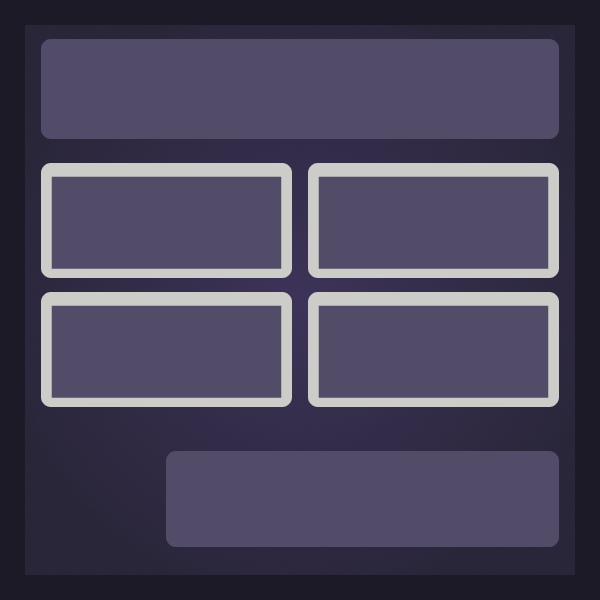
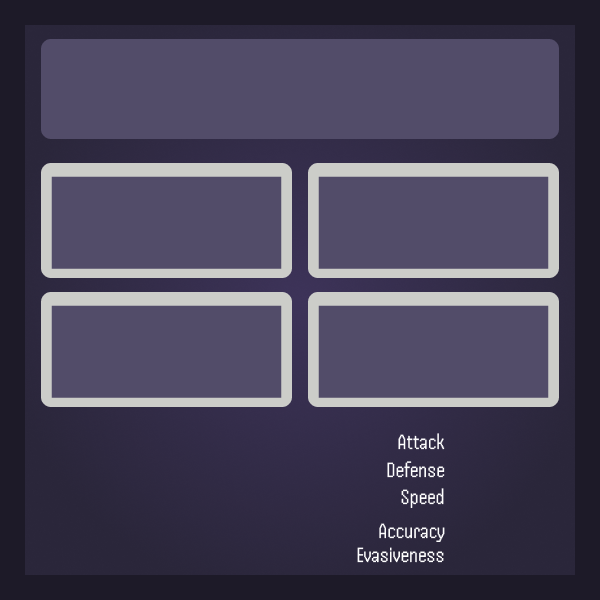
major updates in UI

Changed region(s): [[0.27, 0.72, 0.93, 0.96]]

diff --git a/frame/image-generation/generators.ts b/frame/image-generation/generators.ts
@@ -1,10 +1,12 @@
 import sharp from "sharp";
 import { Attack } from "../types/types";
-import { attackType, hpSVG, moves, pokemonSVG, typeBox } from "./functions";
+import { attackType, hpHp, hpSVG, moves, pokemonSVG, statusPokemon, typeBox } from "./functions";
 
 export const generateGame = async (
     pokemon1Name: string,
+    pokemon1Id: string,
     pokemon2Name: string,
+    pokemon2Id: string,
     totalHP1: number,
     currentHp1: number,
     totalHP2: number,
@@ -16,52 +18,41 @@ export const generateGame = async (
       const gameComponents = (() => {
         const components = [];
   
-        // SVG box card
-        const cardSVG = `
-        <svg width="255" height="100">
-          <rect x="2" y="2" width="220" height="80" rx="12" fill="#3D3359" stroke="#5A534B" stroke-width="3"/>
-        </svg>
-      `;
-        components.push({ input: Buffer.from(cardSVG), top: 440, left: 335 });
-        components.push({ input: Buffer.from(cardSVG), top: 40, left: 35 });
   
         const hp1SVG = hpSVG(currentHp1, totalHP1);
         const hp2SVG = hpSVG(currentHp2, totalHP2);
   
-        components.push({ input: Buffer.from(hp1SVG), top: 480, left: 350 });
-        components.push({ input: Buffer.from(hp2SVG), top: 80, left: 50 });
-  
-        
-
+        components.push({ input: Buffer.from(hp1SVG), top: 496, left: 351 });
+        components.push({ input: Buffer.from(hp2SVG), top: 104, left: 53 });
         const pokemon1SVG = pokemonSVG(pokemon1Name);
         const pokemon2SVG = pokemonSVG(pokemon2Name);
-  
-        components.push({ input: Buffer.from(pokemon1SVG), top: 445, left: 350 });
-        components.push({ input: Buffer.from(pokemon2SVG), top: 45, left: 50 });
+        components.push({ input: Buffer.from(pokemon1SVG), top: 455, left: 351 });
+        components.push({ input: Buffer.from(pokemon2SVG), top: 59, left: 53 });
   
         return components;
       })
   
-      const baseImageBuffer = await sharp('./public/pokemon-battle.png')
+      const baseImageBuffer = await sharp('./public/battle-playground.png')
         .resize(600, 600)
         .png()
         .toBuffer();
   
       const gameComponentsArray = gameComponents();
   
-      const pokemon1ImageBuffer = await sharp('./public/1.png')
+      const pokemon1ImageBuffer = await sharp('./public/pokemons/3.png')
         .resize(200, 200)
         .png()
         .toBuffer();
   
-      const pokemon2ImageBuffer = await sharp('./public/2.png')
+      const pokemon2ImageBuffer = await sharp('./public/pokemons/25.png')
         .resize(200, 200)
         .png()
         .toBuffer();
   
+      const hphp = hpHp(currentHp1, totalHP1);
       gameComponentsArray.push({ input: pokemon1ImageBuffer, top: 350, left: 50 });
       gameComponentsArray.push({ input: pokemon2ImageBuffer, top: 50, left: 350 });
-  
+      gameComponentsArray.push({ input: Buffer.from(hphp), top: 524, left: 484 });
       const finalImage = await sharp(baseImageBuffer)
         .composite(gameComponentsArray)
         .png()
@@ -78,6 +69,7 @@ export const generateGame = async (
 
 export const generateFight = async (
     pokemonName: string,
+    pokemonId: number,
     totalHp: number,
     currentHp: number,
     attacks: Attack [],
@@ -87,7 +79,7 @@ export const generateFight = async (
         const components = [];
         const sentence = `        
           <svg width="600" height="65">
-            <text x="164" y="32" text-anchor="middle" font-family="Handjet" font-size="30" fill="white">What will ${pokemonName} do?</text>
+            <text x="0" y="32" text-anchor="left" font-family="Handjet" font-size="30" fill="white">What will ${pokemonName} do?</text>
           </svg>
         `;
         components.push({ input: Buffer.from(sentence), top: 40, left: 60 });
@@ -95,22 +87,37 @@ export const generateFight = async (
         const atk2 = moves(attacks[1].atk);
         const atk3 = moves(attacks[2].atk);
         const back = `
-          <svg width="200" height="75">
-            <text x="50" y="25" text-anchor="middle" font-family="Handjet" font-size="35" fill="white">BACK</text>
+          <svg width="220" height="75">
+            <text x="15" y="25" text-anchor="left" font-family="Handjet" font-size="35" fill="white">BACK</text>
           </svg>         
         `
+        const hphp = hpHp(currentHp, totalHp);
+        const pokemon1SVG = pokemonSVG(pokemonName);
         const hp1SVG = hpSVG(currentHp, totalHp);
-        components.push({ input: Buffer.from(atk1), top: 190, left: 110 });
-        components.push({ input: Buffer.from(atk2), top: 190, left: 383 });
-        components.push({ input: Buffer.from(atk3), top: 320, left: 110 });
-        components.push({ input: Buffer.from(back), top: 338, left: 385 });
-        components.push({ input: Buffer.from(hp1SVG), top: 480, left: 180 });
-        components.push({  input: Buffer.from(typeBox(attacks[0])), top:228, left:58 });
-        components.push({  input: Buffer.from(attackType(attacks[0])), top:228, left:58 });
-        components.push({  input: Buffer.from(typeBox(attacks[1])), top:228, left:323 });
-        components.push({  input: Buffer.from(attackType(attacks[0])), top:228, left:323 });
-        components.push({  input: Buffer.from(typeBox(attacks[2])), top:357, left:58 });
-        components.push({  input: Buffer.from(attackType(attacks[0])), top:357, left:58 });
+        const attack = statusPokemon('6');
+        const defense = statusPokemon('6');
+        const speed = statusPokemon('6');
+        const accuracy = statusPokemon('6');
+        const evasiveness = statusPokemon('6');
+        components.push({ input: Buffer.from(atk1), top: 183, left: 59 });
+        components.push({ input: Buffer.from(atk2), top: 183, left: 324 });
+        components.push({ input: Buffer.from(atk3), top: 313, left: 59 });
+        components.push({ input: Buffer.from(back), top: 340, left: 330 });
+        components.push({ input: Buffer.from(hphp), top: 526, left: 156 });
+        components.push({ input: Buffer.from(pokemon1SVG), top: 455, left: 154 });
+        components.push({ input: Buffer.from(hp1SVG), top: 494, left: 154 });
+        components.push({  input: Buffer.from(typeBox(attacks[0])), top:226, left:58 });
+        components.push({  input: Buffer.from(attackType(attacks[0])), top:226, left:58 });
+        components.push({  input: Buffer.from(typeBox(attacks[1])), top:226, left:323 });
+        components.push({  input: Buffer.from(attackType(attacks[1])), top:226, left:323 });
+        components.push({  input: Buffer.from(typeBox(attacks[2])), top:355, left:60 });
+        components.push({  input: Buffer.from(attackType(attacks[2])), top:355, left:60 });
+        components.push({  input: Buffer.from(attack), top:427, left:453 });
+        components.push({  input: Buffer.from(defense), top:456, left:453 });
+        components.push({  input: Buffer.from(speed), top:484, left:453 });
+        components.push({  input: Buffer.from(accuracy), top:520, left:453 });
+        components.push({  input: Buffer.from(evasiveness), top:543, left:453 });
+
         return components;
      })
 
@@ -119,8 +126,8 @@ export const generateFight = async (
     .resize(600, 600)
     .png()
     .toBuffer();
-    const pokemon1ImageBuffer = await sharp('./public/pikachu2.png')
-    .resize(100, 100)
+    const pokemon1ImageBuffer = await sharp(`./public/pokemons/${pokemonId}.png`)
+    .resize(108, 108)
     .png()
     .toBuffer();
 
@@ -247,6 +254,94 @@ export const generatePokemonCard = async (
   return finalImage;
   } catch(error) {
       console.error("Error during battle checkout generation:", error);
+      throw error;
+  }
+}
+
+export const generatePokemonMenu = async (
+  pokemonName1: string,
+  pokemonId1: number,
+  pokemonName2: string,
+  pokemonId2: number,  
+  totalHp1: number,
+  currentHp1: number,
+  totalHp2: number,
+  currentHp2: number,
+  attacks: Attack [],
+) => {
+  try {
+    const fightComponents = (() => {
+      const components = [];
+      const sentence = `        
+        <svg width="600" height="65">
+          <text x="0" y="32" text-anchor="left" font-family="Handjet" font-size="30" fill="white">What will ${pokemonName} do?</text>
+        </svg>
+      `;
+      components.push({ input: Buffer.from(sentence), top: 40, left: 60 });
+      const atk1 = moves(attacks[0].atk);
+      const atk2 = moves(attacks[1].atk);
+      const atk3 = moves(attacks[2].atk);
+      
+      const pokemon1SVG = pokemonSVG(pokemonName1);
+      const pokemon2SVG = pokemonSVG(pokemonName2);
+      const hp1SVG = hpSVG(currentHp1, totalHp1);
+      const hp2SVG = hpSVG(currentHp2, totalHp2);
+      const hphp1 = hpHp(currentHp1, totalHp1);
+      const hphp2 = hpHp(currentHp2, totalHp2);
+      const attack = statusPokemon('6');
+      const defense = statusPokemon('6');
+      const speed = statusPokemon('6');
+      const accuracy = statusPokemon('6');
+      const evasiveness = statusPokemon('6');
+      components.push({ input: Buffer.from(atk1), top: 183, left: 59 });
+      components.push({ input: Buffer.from(atk2), top: 183, left: 324 });
+      components.push({ input: Buffer.from(atk3), top: 313, left: 59 });
+      components.push({ input: Buffer.from(pokemon1SVG), top: 455, left: 154 });
+      components.push({ input: Buffer.from(pokemon2SVG), top: 455, left: 154 });
+      components.push({ input: Buffer.from(hp1SVG), top: 494, left: 154 });
+      components.push({ input: Buffer.from(hp2SVG), top: 494, left: 154 });
+      components.push({ input: Buffer.from(hphp1), top: 494, left: 154 });
+      components.push({ input: Buffer.from(hphp2), top: 494, left: 154 });
+      components.push({  input: Buffer.from(typeBox(attacks[0])), top:226, left:58 });
+      components.push({  input: Buffer.from(attackType(attacks[0])), top:226, left:58 });
+      components.push({  input: Buffer.from(typeBox(attacks[1])), top:226, left:323 });
+      components.push({  input: Buffer.from(attackType(attacks[1])), top:226, left:323 });
+      components.push({  input: Buffer.from(typeBox(attacks[2])), top:355, left:60 });
+      components.push({  input: Buffer.from(attackType(attacks[2])), top:355, left:60 });
+      components.push({  input: Buffer.from(attack), top:427, left:453 });
+      components.push({  input: Buffer.from(defense), top:456, left:453 });
+      components.push({  input: Buffer.from(speed), top:484, left:453 });
+      components.push({  input: Buffer.from(accuracy), top:520, left:453 });
+      components.push({  input: Buffer.from(evasiveness), top:543, left:453 });
+
+      return components;
+   })
+
+  const fightComponentsArray = fightComponents();
+  const baseImageBuffer = await sharp('./public/battle-fight.png')
+  .resize(600, 600)
+  .png()
+  .toBuffer();
+
+  const pokemon1ImageBuffer = await sharp(`./public/pokemons/${pokemonId1}.png`)
+  .resize(108, 108)
+  .png()
+  .toBuffer();
+
+  const pokemon2ImageBuffer = await sharp(`./public/pokemons/${pokemonId2}.png`)
+  .resize(108, 108)
+  .png()
+  .toBuffer();
+
+  fightComponentsArray.push({input: pokemon1ImageBuffer, top: 438, left: 41});
+  const finalImage = await sharp(baseImageBuffer)
+  .composite(fightComponentsArray)
+  .png()
+  .toBuffer();
+
+  return finalImage;
+  } catch(error) {
+      console.error("Error during fight menu generation:", error);
       throw error;
   }
 }

diff --git a/frame/image-generation/functions.ts b/frame/image-generation/functions.ts
@@ -4,8 +4,8 @@ export const moves =((
     attackName: string
   ) => {
         return (
-        `<svg width="300" height="65">
-        <text x="50" y="25" text-anchor="middle" font-family="Handjet" font-size="32" fill="white">${attackName}</text>
+        `<svg width="220" height="65">
+        <text x="0" y="25" text-anchor="left" font-family="Handjet" font-size="27" fill="white">${attackName}</text>
         </svg>`
         )
   })
@@ -33,41 +33,66 @@ export const attackType = ((
         )
   })
 
-export const pp = ((
-    attackPP: number,
-    currentPP: number
-  ) => {
-        return(`
-        <svg width="200" height="75">
-            <text x="50" y="25" text-anchor="middle" font-family="Handjet" font-size="30" fill="white">PP: ${currentPP.toString()}/${attackPP.toString()}</text>
-        </svg>
-        `)
-    })
+export const statusPokemon = ((
+    statusPoints: string,
+) => {
+    return(
+        `
+           <svg width="100" height="45">
+            <text x="0" y="20" text-anchor="left" font-family="Handjet" font-size="20" fill="white">+${statusPoints}</text>
+           </svg>       
 
+        `
+    )
+})
 
-// Create SVG overlays for health bars
 export const hpSVG = ((
     currentHp: number,
     totalHp: number
     ) => {
-        const hpBarSize = 200;
+        const hpBarSize = 160;
         const hpWidth = (currentHp / totalHp ) * hpBarSize;
         return (`
-            <svg width="200" height="100">
-              <rect width="${hpWidth}" height="30" fill="${(hpWidth < 46) ? 'red' : 'green'}"/>
-              <rect x="${hpWidth}" width="${hpBarSize - hpWidth}" height="32" fill="black"/>
-              <text x="145" y="55" text-anchor="middle" font-family="Arial" font-size="24" fill="white">HP:${currentHp}/${totalHp}</text>
-            </svg> 
+            <svg width="194" height="29" fill="none">
+            <rect x="1.5" y="5.5" width="191" height="19" rx="9.5" fill="#1D1A28" stroke="#1D1A28" stroke-width="3"/>
+            <rect x="27.5" y="5.5" width="${hpWidth}" height="19" rx="9.5" fill="url(#paint0_linear_716_93)" stroke="#1D1A28" stroke-width="3"/>
+            <path d="M8.99941 18.6912V17.3676V16.0441V14.7206V13.3971V12.0735V10.75V9.42647V8.10294H10.3229H11.6465V9.42647V10.75V12.0735V13.3971V14.7206V16.0441V17.3676V18.6912V20.0147V21.3382H10.3229H8.99941M8.99941 21.3382V22.6618V17.3676V16.0441V14.7206V13.3971V12.0735V10.75V9.42647V8.10294V6.77941H10.3229H11.6465V8.10294V9.42647V10.75V12.0735V13.3971V14.7206V16.0441V17.3676V18.6912V20.0147V21.3382V22.6618H10.3229H8.99941M14.2935 18.6912V17.3676V16.0441V14.7206V13.3971V12.0735V10.75V9.42647V8.10294H15.6171H16.9406V9.42647V10.75V12.0735V13.3971V14.7206V16.0441V17.3676V18.6912V20.0147V21.3382H15.6171H14.2935M14.2935 21.3382V22.6618V17.3676V16.0441V14.7206V12.0735V10.75V9.42647V8.10294V6.77941H15.6171H16.9406V8.10294V9.42647V10.75V12.0735V13.3971V14.7206V16.0441V17.3676V18.6912V20.0147V21.3382V22.6618H15.6171H14.2935M14.2935 13.3971V14.7206V16.0441H12.97H11.6465V14.7206V13.3971M10.3229 16.0441V14.7206V13.3971H11.6465H15.6171V14.7206V16.0441H12.97H11.6465H10.3229ZM18.7219 18.6912V17.3676V16.0441V14.7206V13.3971V12.0735V10.75V9.42647V8.10294H20.0454H21.3689V9.42647V10.75V12.0735V13.3971V14.7206V16.0441V17.3676V18.6912V20.0147V21.3382H20.0454H18.7219M22.6925 6.77941V8.10294V9.42647H21.3689H20.0454V8.10294V6.77941M24.016 6.77941V8.10294H25.3395H26.663V9.42647V10.75V12.0735V13.3971V14.7206V16.0441H25.3395H24.016V17.3676H22.6925H21.3689V16.0441V14.7206H24.016V13.3971V12.0735V10.75V9.42647H22.6925V8.10294M18.7219 21.3382V22.6618V17.3676V16.0441V14.7206V13.3971V12.0735V10.75V9.42647V8.10294V6.77941H20.0454H25.3395V8.10294V9.42647H26.663V10.75V12.0735V13.3971V14.7206H25.3395V16.0441V17.3676H24.016H22.6925H21.3689L20.0454 16.0441V14.7206H21.3689H24.016V13.3971V12.0735V10.75V9.42647H22.6925H21.3689V10.75V12.0735V13.3971V14.7206V16.0441V17.3676V18.6912V20.0147V21.3382V22.6618H20.0454H18.7219" fill="url(#paint1_linear_716_93)"/>
+            <defs>
+            <linearGradient id="paint0_linear_716_93" x1="110" y1="26" x2="110" y2="4" gradientUnits="userSpaceOnUse">
+            <stop stop-color="${(hpWidth < 46)?'#B71111':'#76ED89'}"/>
+            <stop offset="1" stop-color="${(hpWidth < 46)?'#F50303':'#6DC99B'}"/>
+            </linearGradient>
+            <linearGradient id="paint1_linear_716_93" x1="17.5" y1="0" x2="17.5" y2="29" gradientUnits="userSpaceOnUse">
+            <stop stop-color="#FDDA69"/>
+            <stop offset="1" stop-color="#FBBC41"/>
+            </linearGradient>
+            </defs>
+            </svg>
         `)
     })
 
-// Create SVG overlays for Pokemon names
+function prettyName(inputString: string): string {
+    let upperString = inputString.toUpperCase();
+    return upperString;
+}
+
 export const pokemonSVG = ((
     pokemonName: string
     ) => {
         return( `
-            <svg width="200" height="75">
-            <text x="50" y="25" text-anchor="middle" font-family="Arial" font-size="25" fill="white">${pokemonName}</text>
+            <svg width="165" height="45">
+            <text x="0" y="25" text-anchor="left" font-family="Arial" font-size="20" fill="white" font-weight="bold">${prettyName(pokemonName)}</text>
             </svg>
       `)
     })
+
+export const hpHp = ((
+            currentHp: number,
+            totalHp: number
+        ) => {
+            return( `
+                <svg width="80" height="45">
+                <text x="0" y="25" text-anchor="left" font-family="Arial" font-size="22" fill="white">${currentHp}/${totalHp}</text>
+                </svg>
+          `)
+        })

diff --git a/frame/api/index.tsx b/frame/api/index.tsx
@@ -621,9 +621,21 @@ app.frame('/share/:pokemonId', (c) => {
   })
 })
 
+app.frame('/test', (c) => {
+  const pokemonId = c.req.param('pokemonId');
+  return c.res({
+    title,
+    image: `/image/fight`,
+    imageAspectRatio: '1:1',
+    intents: [
+      <Button action={`/`}>TRY IT OUT 🏠</Button>,
+    ],
+  })
+})
+
 app.hono.get('/image/vs', async (c) => {
   try {
-    const image = await generateGame(`pikachu`, `chupacu`, 20, 4, 30, 23);
+    const image = await generateGame(`pikachu`, '25', `charmander`, '3', 20, 4, 30, 30);
 
     return c.newResponse(image, 200, {
       'Content-Type': 'image/png',
@@ -684,8 +696,8 @@ app.hono.get('/image/checkout/:p1/:p2/:p3', async (c) => {
 
 app.hono.get('/image/fight', async (c) => {
   try {
-    const attacks = [{atk: 'Light', type: {name:'normal', color:'000000'}, PP:20}, {atk: 'Light', type: {name:'normal', color:'000000'}, PP:20}, {atk: 'Light', type: {name:'normal', color:'000000'}, PP:20}] as Attack[];
-    const image = await generateFight('pikachu', 20, 20, attacks)
+    const attacks = [{atk: 'Tackle', type: {name:'normal', color:'919191'}}, {atk: 'Thunderbolt', type: {name:'electric', color:'FFE500'}}, {atk: 'Light', type: {name:'normal', color:'000000'}}] as Attack[];
+    const image = await generateFight('pikachu', 25, 20, 20, attacks)
 
     return c.newResponse(image, 200, {
       'Content-Type': 'image/png',

diff --git a/frame/types/types.ts b/frame/types/types.ts
@@ -1,6 +1,5 @@
 export type Attack = {
     atk: string,
-    PP: number,
     type: PokemonType;
 }
 
